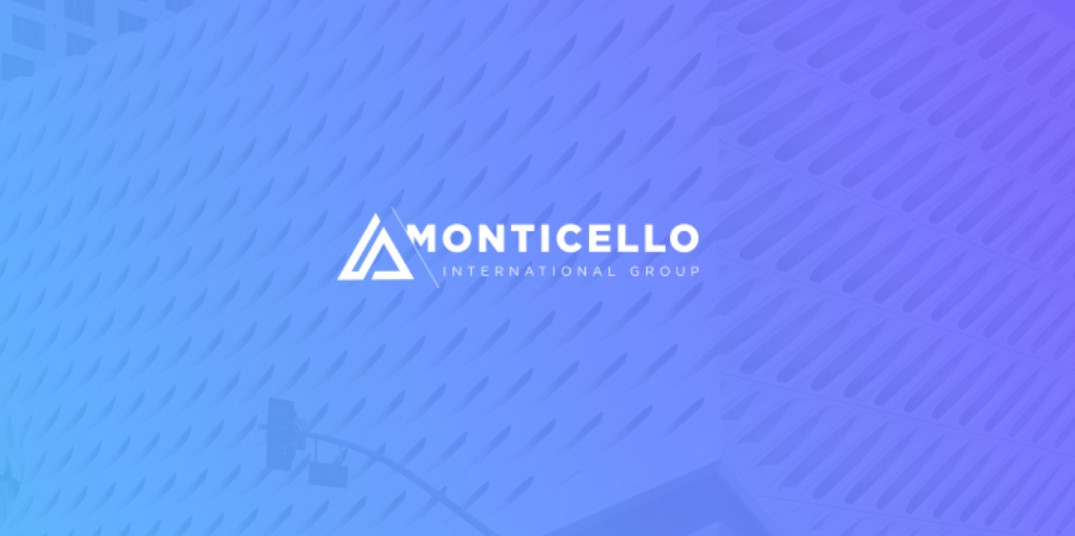
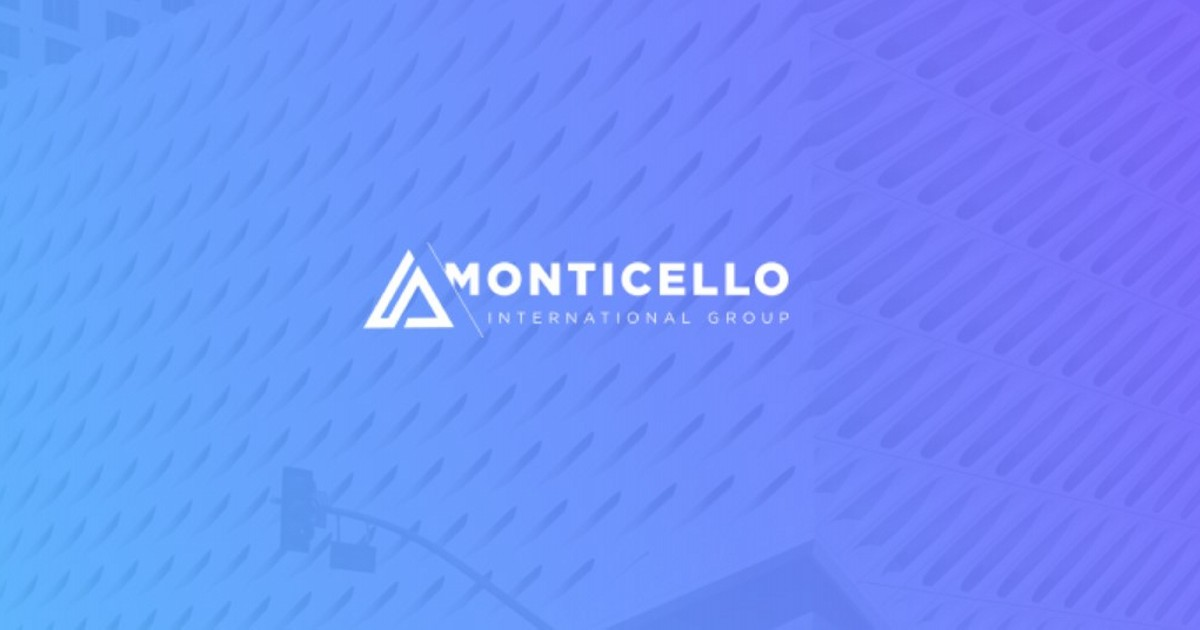
images optimized

Changed region(s): [[0.307, 0.3881, 0.6753, 0.5373]]

diff --git a/index.html b/index.html
@@ -65,7 +65,7 @@
   <header class="header">
     <div class="container">
       <a href="#" class="logo-link">
-        <img src="img/logo.png" alt="Monticello logo" width="200" height="45">
+        <img src="img/logo.webp" alt="Monticello logo" width="200" height="45">
       </a>
       <nav class="header__nav">
         <h2 class="visually-hidden">Main navigation</h2>
@@ -149,7 +149,8 @@
         <h3 class="heading">What we do</h3>
         <ul class="project-list">
           <li class="project-list__item">
-            <img src="img/project-1.jpg" alt="One world trade center" class="project__img" width="290" height="216">
+            <img src="img/project-1.webp" alt="One world trade center" class="project__img" width="630" height="470"
+              loading="lazy">
             <div class="project__description">
               <p class="project__subheading heading">One world</p>
               <h4 class="project__heading heading">Trade center</h4>
@@ -161,7 +162,8 @@
             </div>
           </li>
           <li class="project-list__item">
-            <img src="img/project-2.jpg" alt="International commerce center" class="project__img">
+            <img src="img/project-2.webp" alt="International commerce center" class="project__img" loading="lazy"
+              width="630" height="470">
             <div class="project__description">
               <p class="project__subheading heading">International</p>
               <h4 class="project__heading heading">Commerce center</h4>
@@ -181,7 +183,8 @@
           <ul class="news">
             <li class="news__item">
               <a href="#" class="news__img-link">
-                <img src="img/news-1.jpg" alt="See the unmatched beauty if the great." class="news__img">
+                <img src="img/news-1.webp" alt="See the unmatched beauty if the great." class="news__img" loading="lazy"
+                  width="370" height="240">
               </a>
               <div class="news__text-wrapper">
                 <a href="#">
@@ -190,7 +193,8 @@
                 <p class="news__text">Free directories: directories are perfect for customers that are searching for</p>
                 <div class="news__author">
                   <a href="#" class="news__author__photo-link">
-                    <img src="img/profile-1.jpg" alt="Alja Brun" class="news__author__photo">
+                    <img src="img/profile-1.webp" alt="Alja Brun" class="news__author__photo" loading="lazy" width="60"
+                      height="60">
                   </a>
                   <div class="news__author__text-wrapper">
                     <a href="#">
@@ -203,7 +207,8 @@
             </li>
             <li class="news__item">
               <a href="#" class="news__img-link">
-                <img src="img/news-2.jpg" alt="Effective advertising pointers." class="news__img">
+                <img src="img/news-2.webp" alt="Effective advertising pointers." class="news__img" loading="lazy"
+                  width="370" height="240">
               </a>
               <div class="news__text-wrapper">
                 <a href="#">
@@ -212,7 +217,8 @@
                 <p class="news__text">Having a home based business is a wonderful asset to your life</p>
                 <div class="news__author">
                   <a href="#" class="news__author__photo-link">
-                    <img src="img/profile-2.jpg" alt="Dominic Freeman" class="news__author__photo">
+                    <img src="img/profile-2.webp" alt="Dominic Freeman" class="news__author__photo" loading="lazy"
+                      width="60" height="60">
                   </a>
                   <div class="news__author__text-wrapper">
                     <a href="#">
@@ -225,7 +231,8 @@
             </li>
             <li class="news__item">
               <a href="#" class="news__img-link">
-                <img src="img/news-3.jpg" alt="Hypnotyze yourself into a ghost." class="news__img">
+                <img src="img/news-3.webp" alt="Hypnotyze yourself into a ghost." class="news__img" loading="lazy"
+                  width="370" height="240">
               </a>
               <div class="news__text-wrapper">
                 <a href="#">
@@ -234,7 +241,8 @@
                 <p class="news__text">There are many things that are important to catalog design</p>
                 <div class="news__author">
                   <a href="#" class="news__author__photo-link">
-                    <img src="img/profile-3.jpg" alt="Alice Ward" class="news__author__photo">
+                    <img src="img/profile-3.webp" alt="Alice Ward" class="news__author__photo" loading="lazy" width="60"
+                      height="60">
                   </a>
                   <div class="news__author__text-wrapper">
                     <a href="#">
@@ -247,7 +255,8 @@
             </li>
             <li class="news__item">
               <a href="#" class="news__img-link">
-                <img src="img/news-2.jpg" alt="Effective advertising pointers." class="news__img">
+                <img src="img/news-2.webp" alt="Effective advertising pointers." class="news__img" loading="lazy"
+                  width="370" height="240">
               </a>
               <div class="news__text-wrapper">
                 <a href="#">
@@ -256,7 +265,8 @@
                 <p class="news__text">Having a home based business is a wonderful asset to your life</p>
                 <div class="news__author">
                   <a href="#" class="news__author__photo-link">
-                    <img src="img/profile-2.jpg" alt="Dominic Freeman" class="news__author__photo">
+                    <img src="img/profile-2.webp" alt="Dominic Freeman" class="news__author__photo" loading="lazy"
+                      width="60" height="60">
                   </a>
                   <div class="news__author__text-wrapper">
                     <a href="#">
@@ -269,7 +279,8 @@
             </li>
             <li class="news__item">
               <a href="#" class="news__img-link">
-                <img src="img/news-3.jpg" alt="Hypnotyze yourself into a ghost." class="news__img">
+                <img src="img/news-3.webp" alt="Hypnotyze yourself into a ghost." class="news__img" loading="lazy"
+                  width="370" height="240">
               </a>
               <div class="news__text-wrapper">
                 <a href="#">
@@ -278,7 +289,8 @@
                 <p class="news__text">There are many things that are important to catalog design</p>
                 <div class="news__author">
                   <a href="#" class="news__author__photo-link">
-                    <img src="img/profile-3.jpg" alt="Alice Ward" class="news__author__photo">
+                    <img src="img/profile-3.webp" alt="Alice Ward" class="news__author__photo" loading="lazy" width="60"
+                      height="60">
                   </a>
                   <div class="news__author__text-wrapper">
                     <a href="#">
@@ -298,28 +310,33 @@
         <h3 class="heading">Gallery</h3>
         <ul class="gallery">
           <li class="gallery__item">
-            <a href="img/hero-2.jpg" class="gallery__link">
-              <img src="img/gallery-1.jpg" alt="Photo of a building" class="gallery__img">
+            <a href="img/hero-2.webp" class="gallery__link">
+              <img src="img/gallery-1.webp" alt="Photo of a building" class="gallery__img" loading="lazy" width="580"
+                height="438">
             </a>
           </li>
           <li class="gallery__item">
-            <a href="img/hero-3.jpg" class="gallery__link">
-              <img src="img/gallery-2.jpg" alt="Photo of a building" class="gallery__img">
+            <a href="img/hero-3.webp" class="gallery__link">
+              <img src="img/gallery-2.webp" alt="Photo of a building" class="gallery__img" loading="lazy" width="285"
+                height="214">
             </a>
           </li>
           <li class="gallery__item">
-            <a href="img/hero-4.jpg" class="gallery__link">
-              <img src="img/gallery-3.jpg" alt="Photo of a building" class="gallery__img">
+            <a href="img/hero-4.webp" class="gallery__link">
+              <img src="img/gallery-3.webp" alt="Photo of a building" class="gallery__img" loading="lazy" width="285"
+                height="214">
             </a>
           </li>
           <li class="gallery__item">
-            <a href="img/hero-5.jpg" class="gallery__link">
-              <img src="img/gallery-4.jpg" alt="Photo of a building" class="gallery__img">
+            <a href="img/hero-5.webp" class="gallery__link">
+              <img src="img/gallery-4.webp" alt="Photo of a building" class="gallery__img" loading="lazy" width="285"
+                height="214">
             </a>
           </li>
           <li class="gallery__item">
-            <a href="img/hero-1.jpg" class="gallery__link">
-              <img src="img/gallery-5.jpg" alt="Photo of a building" class="gallery__img">
+            <a href="img/hero-1.webp" class="gallery__link">
+              <img src="img/gallery-5.webp" alt="Photo of a building" class="gallery__img" loading="lazy" width="285"
+                height="214">
             </a>
           </li>
         </ul>
@@ -359,7 +376,7 @@
       <div class="container">
         <div class="text-wrapper">
           <a href="#" class="logo-link">
-            <img src="img/logo.png" alt="Monticello logo" width="200" height="45">
+            <img src="img/logo.webp" alt="Monticello logo" width="200" height="45" loading="lazy">
           </a>
           <p class="copyright">Copyrights &#169; 2020 Montichello</p>
         </div>

diff --git a/css/style.css b/css/style.css
@@ -440,31 +440,31 @@ html {
   background: linear-gradient(243.43deg, #7E5AFF 16.9%, #55B7FF 83.27%);
 }
 .hero-slider__item:nth-of-type(1)::before {
-  background-image: url("../img/hero-1.jpg");
+  background-image: url("../img/hero-1.webp");
 }
 .hero-slider__item:nth-of-type(2) {
   background: linear-gradient(243.43deg, #5aa2ff 16.9%, #55B7FF 83.27%);
 }
 .hero-slider__item:nth-of-type(2)::before {
-  background-image: url("../img/hero-2.jpg");
+  background-image: url("../img/hero-2.webp");
 }
 .hero-slider__item:nth-of-type(3) {
   background: linear-gradient(243.43deg, #e883ff 16.9%, #55B7FF 83.27%);
 }
 .hero-slider__item:nth-of-type(3)::before {
-  background-image: url("../img/hero-3.jpg");
+  background-image: url("../img/hero-3.webp");
 }
 .hero-slider__item:nth-of-type(4) {
   background: linear-gradient(243.43deg, #ff7373 16.9%, #55B7FF 83.27%);
 }
 .hero-slider__item:nth-of-type(4)::before {
-  background-image: url("../img/hero-4.jpg");
+  background-image: url("../img/hero-4.webp");
 }
 .hero-slider__item:nth-of-type(5) {
   background: linear-gradient(243.43deg, #78ff9c 16.9%, #55B7FF 83.27%);
 }
 .hero-slider__item:nth-of-type(5)::before {
-  background-image: url("../img/hero-5.jpg");
+  background-image: url("../img/hero-5.webp");
 }
 
 .projects-section {
@@ -546,7 +546,7 @@ html {
   bottom: 0;
   left: 50%;
   transform: translateX(-50%);
-  background-image: url("../img/news-bg.png");
+  background-image: url("../img/news-bg.webp");
   background-position: bottom center;
   background-repeat: no-repeat;
   background-size: contain;
@@ -808,7 +808,7 @@ a[href^="https://maps.google.com/maps"] {
 }
 .footer__background {
   padding: 205px 0 235px;
-  background-image: url("../img/footer-bg.png");
+  background-image: url("../img/footer-bg.webp");
   background-position: center;
   background-repeat: no-repeat;
   background-size: cover;

diff --git a/sass/layouts/layout_000/_hero.scss b/sass/layouts/layout_000/_hero.scss
@@ -77,7 +77,7 @@
       background: linear-gradient(243.43deg, #7E5AFF 16.9%, #55B7FF 83.27%);
 
       &::before {
-        background-image: url('../img/hero-1.jpg');
+        background-image: url('../img/hero-1.webp');
       }
     }
 
@@ -85,7 +85,7 @@
       background: linear-gradient(243.43deg, #5aa2ff 16.9%, #55B7FF 83.27%);
 
       &::before {
-        background-image: url('../img/hero-2.jpg');
+        background-image: url('../img/hero-2.webp');
       }
     }
 
@@ -93,7 +93,7 @@
       background: linear-gradient(243.43deg, #e883ff 16.9%, #55B7FF 83.27%);
 
       &::before {
-        background-image: url('../img/hero-3.jpg');
+        background-image: url('../img/hero-3.webp');
       }
     }
 
@@ -101,7 +101,7 @@
       background: linear-gradient(243.43deg, #ff7373 16.9%, #55B7FF 83.27%);
 
       &::before {
-        background-image: url('../img/hero-4.jpg');
+        background-image: url('../img/hero-4.webp');
       }
     }
 
@@ -109,7 +109,7 @@
       background: linear-gradient(243.43deg, #78ff9c 16.9%, #55B7FF 83.27%);
 
       &::before {
-        background-image: url('../img/hero-5.jpg');
+        background-image: url('../img/hero-5.webp');
       }
     }
   }

diff --git a/sass/layouts/layout_000/_news.scss b/sass/layouts/layout_000/_news.scss
@@ -15,7 +15,7 @@
     bottom: 0;
     left: 50%;
     transform: translateX(-50%);
-    background-image: url('../img/news-bg.png');
+    background-image: url('../img/news-bg.webp');
     background-position: bottom center;
     background-repeat: no-repeat;
     background-size: contain;

diff --git a/sass/layouts/layout_000/_footer.scss b/sass/layouts/layout_000/_footer.scss
@@ -3,7 +3,7 @@
 
   &__background {
     padding: 205px 0 235px;
-    background-image: url('../img/footer-bg.png');
+    background-image: url('../img/footer-bg.webp');
     background-position: center;
     background-repeat: no-repeat;
     background-size: cover;
